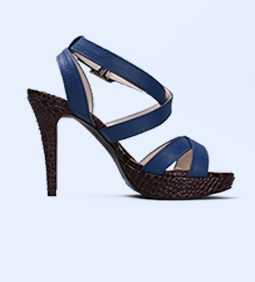
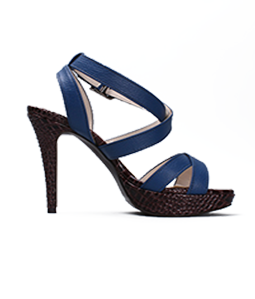
Change img add background color

Changed region(s): [[0.0824, 0.1135, 0.9608, 0.7376]]

diff --git a/hw-04/css/style.css b/hw-04/css/style.css
@@ -2,7 +2,6 @@ body {
   font-family: "Roboto", "Open Sans", sans-serif;
   box-sizing: border-box;
   width: 1170px;
-  background-color: #ffffff;
   width: 100%;
   height: 100%;
   line-height: 24px;
@@ -16,6 +15,7 @@ img {
   max-width: 100%;
   width: 256px;
   height: 284px;
+  background-color: #e9f0fd;
 }
 .clearfix::after {
   display: table;
